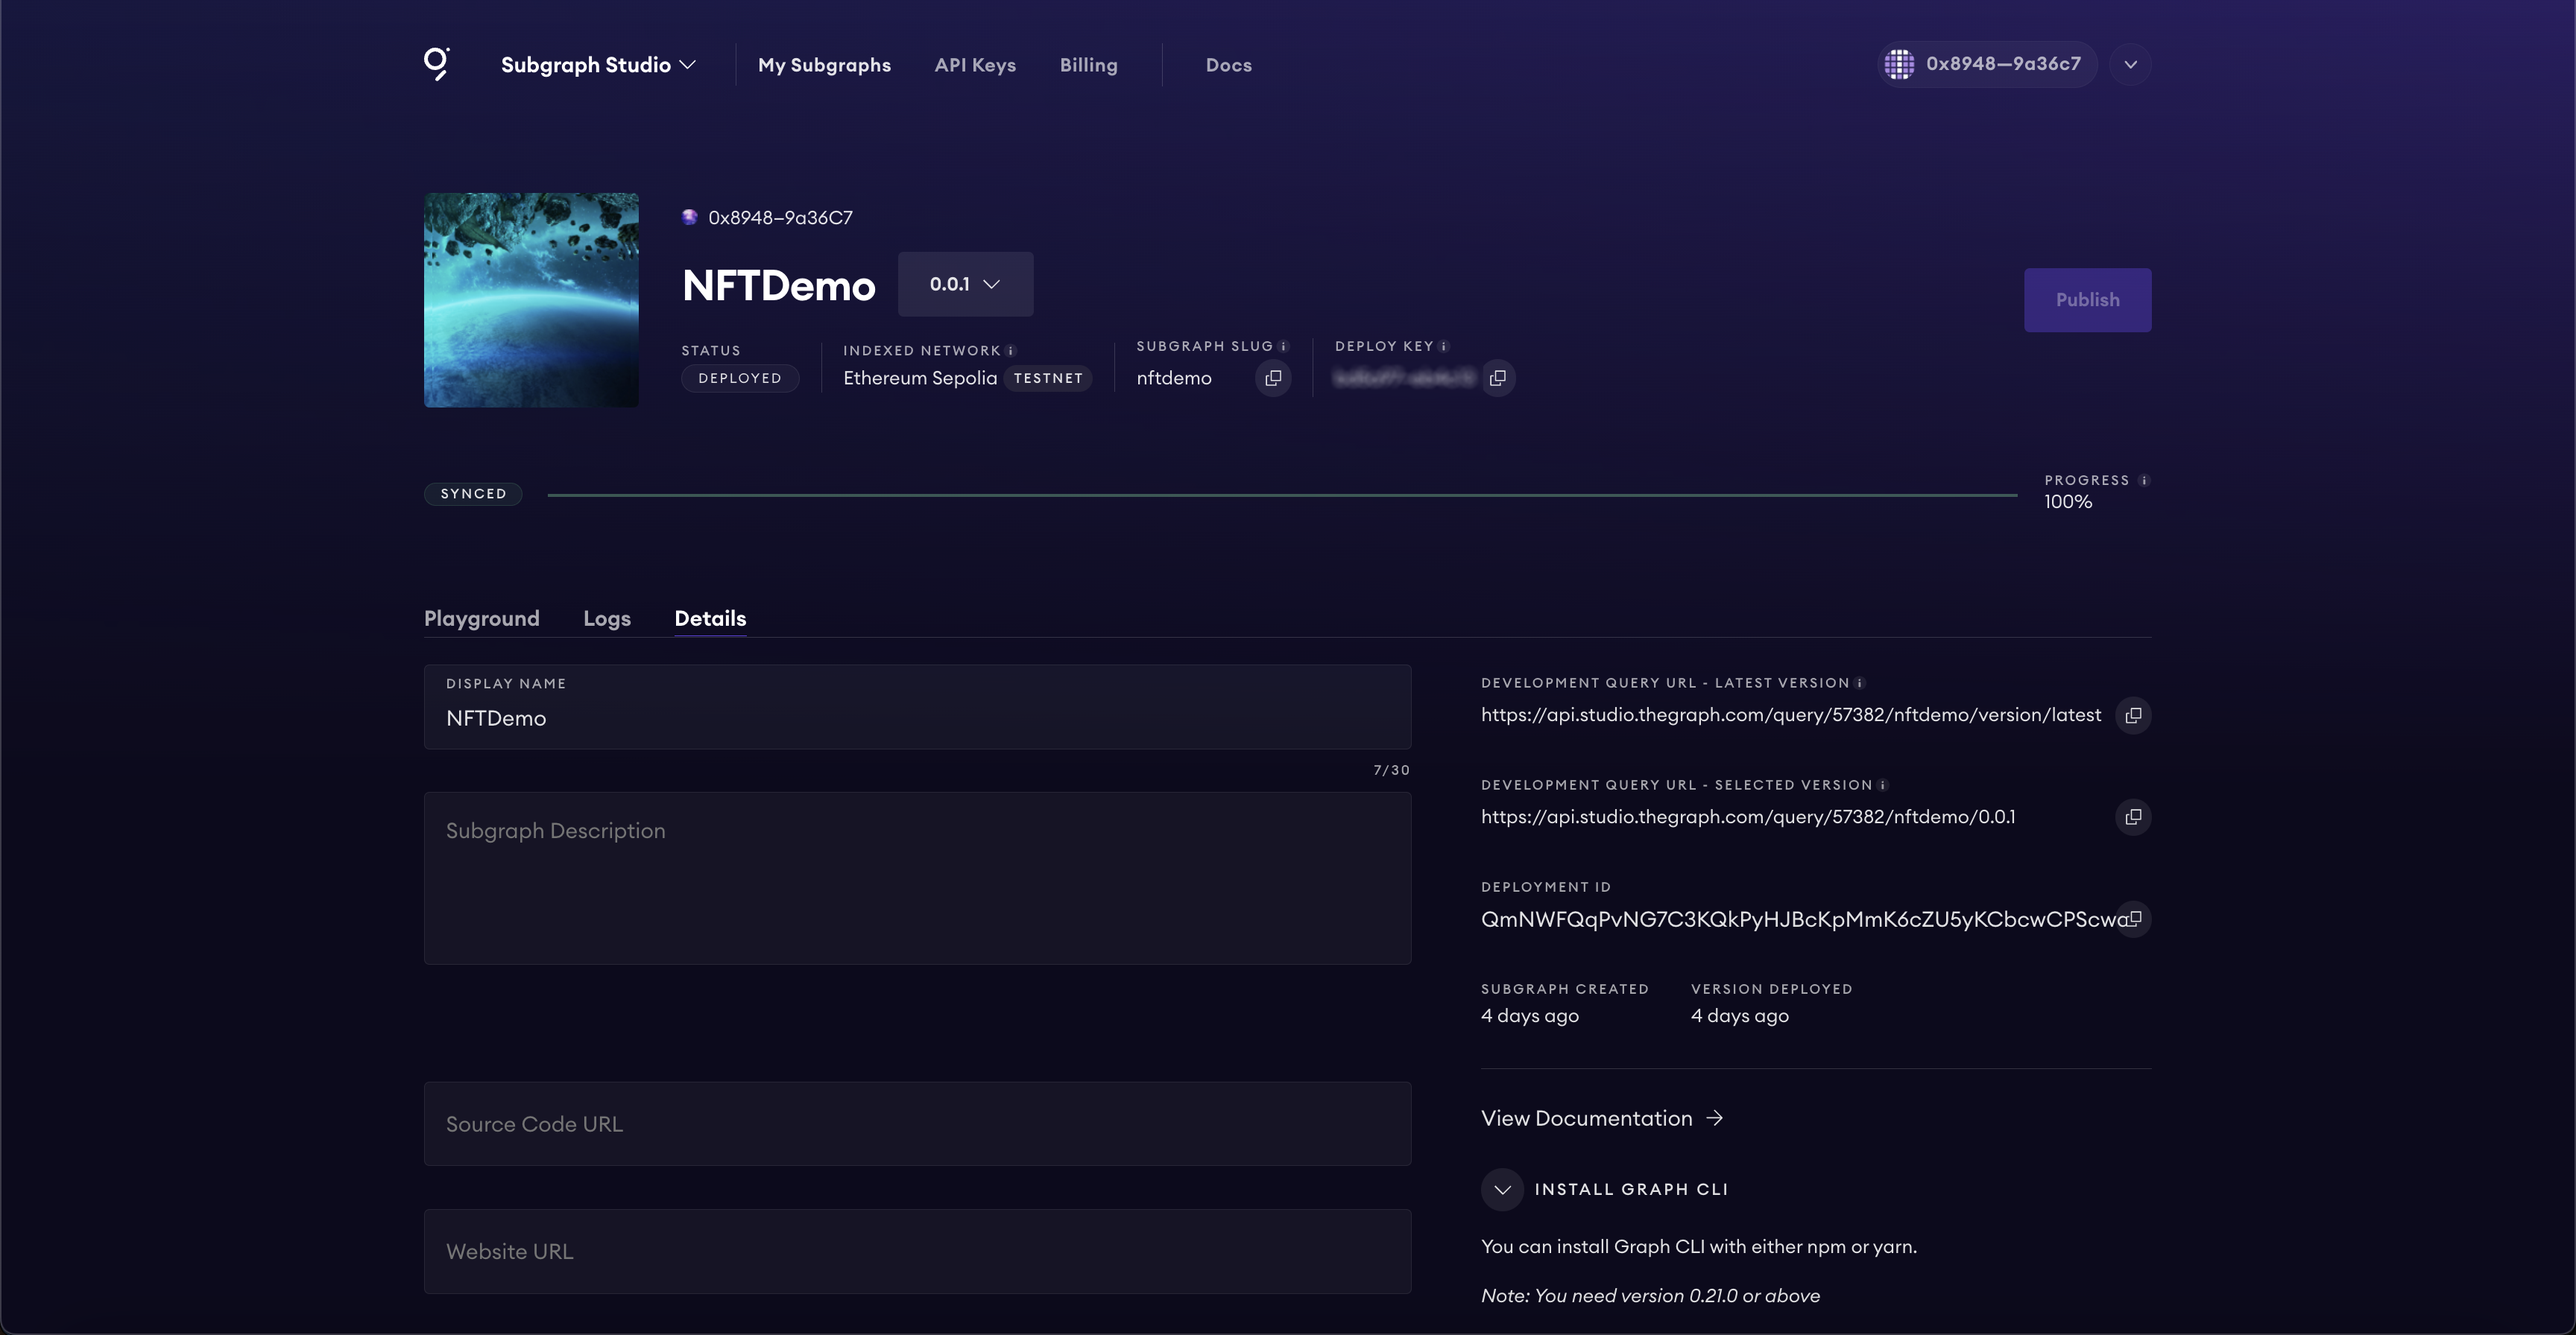
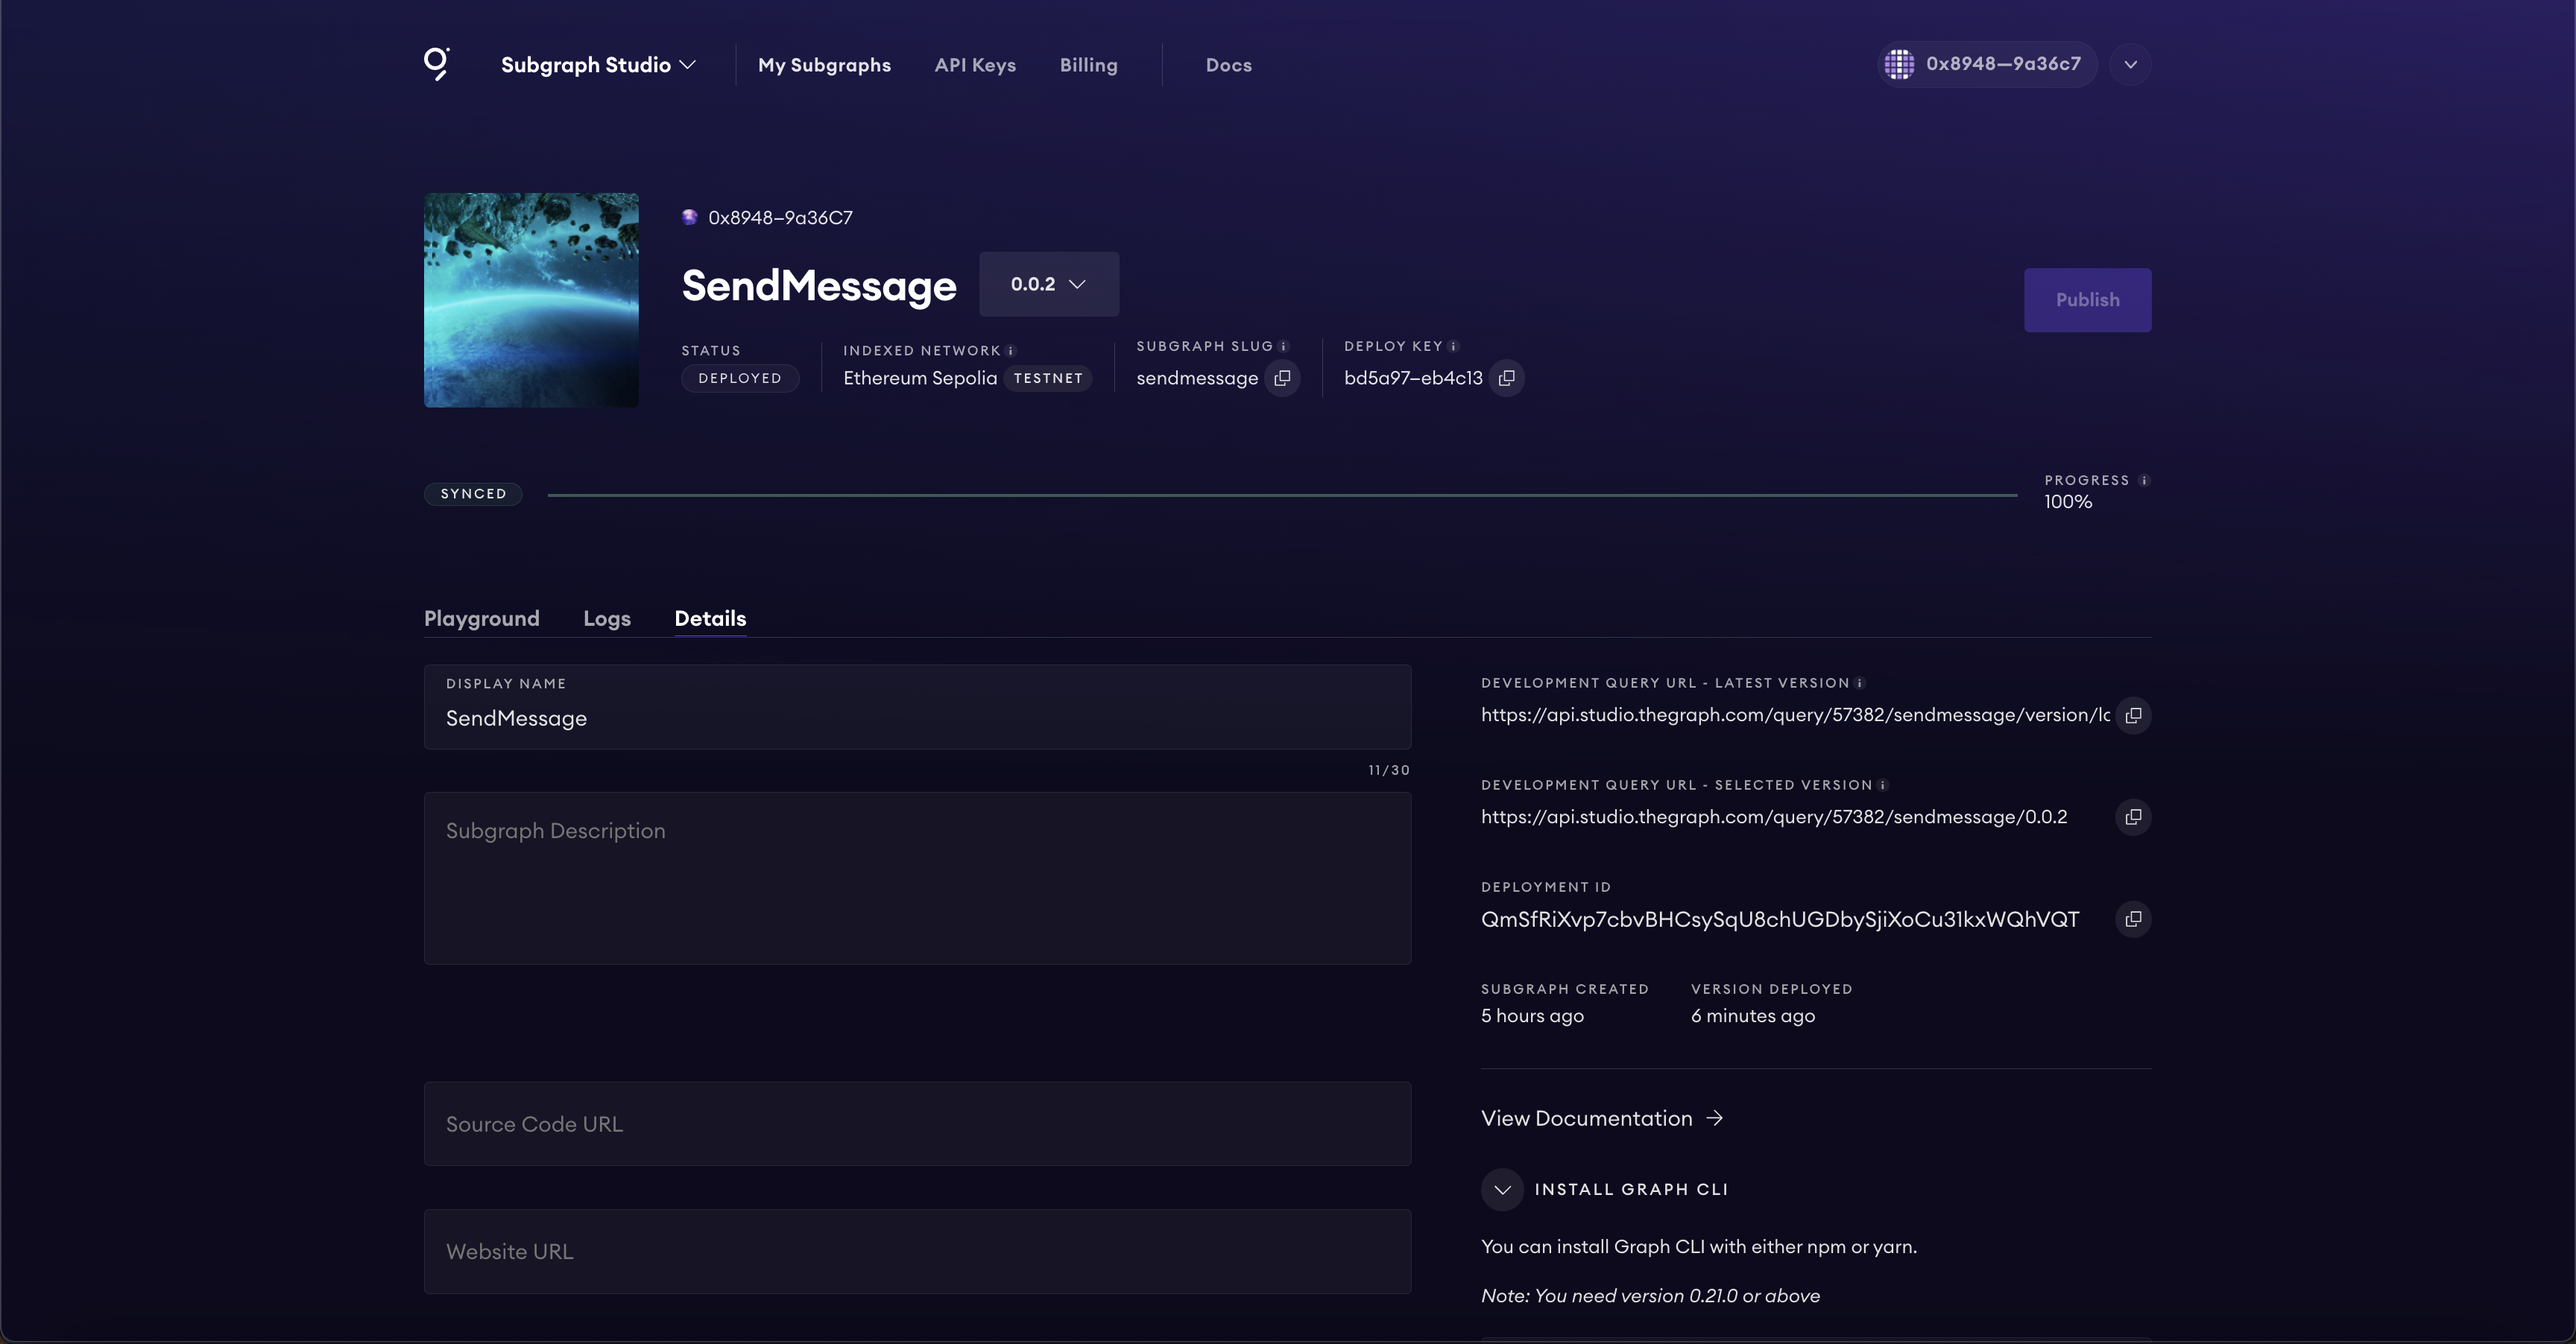
Adding some new screenshots and updating docs

diff --git a/docs/The_Graph-SE2-Subgraph-package/en/section-1/lesson-2_Updating your subgraph.md b/docs/The_Graph-SE2-Subgraph-package/en/section-1/lesson-2_Updating your subgraph.md
@@ -32,6 +32,8 @@ type SendMessage @entity(immutable: true) {
 
 ```
 
+![](/public/images/The_Graph-SE2-Subgraph-package/section-1/Lesson2-1.png)
+
 #### ✅ Update the Subgraph manifest
 
 You will also need to add these entities to the Subgraph YAML configuration and also add the event handlers as well.
@@ -52,11 +54,15 @@ entities:
           handler: handleSendMessage
 ```
 
+![](/public/images/The_Graph-SE2-Subgraph-package/section-1/Lesson2-2.png)
+
 If you are following along, next you will need to copy over your new abi and regenerate the code.
 
 ```
 yarn abi-copy && yarn codegen
 ```
+
+![](/public/images/The_Graph-SE2-Subgraph-package/section-1/Lesson2-3.png)
 
 #### ✅ Update the mapping script
 
@@ -66,9 +72,10 @@ Next you will need to update the mappings for the files we have edited above.
 
 ```
 import {
+  YourContract,
   GreetingChange as GreetingChangeEvent,
   SendMessage as SendMessageEvent
-} from "../generated/Contract/Contract"
+} from "../generated/YourContract/YourContract";
 ```
 
 As well as the schema.
@@ -112,6 +119,10 @@ export function handleSendMessage(event: SendMessageEvent): void {
 }
 
 ```
+
+Your changes should be accepted inside of your editor without any linting errors.
+
+![](/public/images/The_Graph-SE2-Subgraph-package/section-1/Lesson2-4.png)
 
 After that is done, you are almost done… time to ship it!
 

diff --git a/docs/The_Graph-SE2-Subgraph-package/en/section-2/lesson-6_Frontend.md b/docs/The_Graph-SE2-Subgraph-package/en/section-2/lesson-6_Frontend.md
@@ -14,6 +14,12 @@ Update the configuration to point to the testnet that you deployed to in previou
   targetNetwork: chains.sepolia,
 ```
 
+Once you change this you can go back to scaffold-ETH and refresh the UI. You will get kicked from your burner wallet, you will want to connect to the testnet work using your metamask wallet.
+
+#### ✅ Fire off a test message to someone you know!
+
+Then check to see if the message was indexed successfully in the studio.
+
 #### ✅ Update our GraphQL URL to point to our development endpoint
 
 The development endpoint for your subgraph can be found on the details tab in Subgraph Studio.
@@ -102,5 +108,17 @@ And then load the data like so...
 
   const messages = messagesData?.sendMessages || []; 
 ```
+
+We can then make this a bit prettier and use the <Address> component instead of just plain text.
+
+```
+              <tr key={message.id}>
+                <td><Address address={message._from}/></td>
+                <td><Address address={message._to}/></td>
+                <td>{message.message}</td>
+              </tr>
+```
+
+This will look a lot nicer than those long strings! :D
 
 > Note: If you want to see the full complete file you can do so [here](https://gist.github.com/kmjones1979/26ef9633b61b17f237e88eb41bb688de)!

diff --git a/docs/The_Graph-SE2-Subgraph-package/en/section-1/lesson-1_Adding an event.md b/docs/The_Graph-SE2-Subgraph-package/en/section-1/lesson-1_Adding an event.md
@@ -8,7 +8,7 @@ Now we want to start making some changes to our contract. We will create a new f
 
 > Open up YourContract.sol under packages/hardhat/contracts
 
-Add the following new code.
+Add the following new line of code.
 
 ```
     event SendMessage(address _from, address _to, string message);
@@ -18,12 +18,24 @@ Add the following new code.
     }
 ```
 
-We can save our contract and then deploy those new changes.
+You can drop this event and function anywhere inside the contract, but best practice is to drop it below any modifiers or the constructor.
+
+![](/public/images/The_Graph-SE2-Subgraph-package/section-1/Lesson1-1.png)
+
+We can save our contract and then deploy those new changes. 
+
+> Pro tip, if you use the --reset flag you will ALWAYS get a fresh contract deployed, regardless of any updates to the source.
 
 ```
 yarn deploy --reset
 ```
 
+You should see the following output:
+
+![](/public/images/The_Graph-SE2-Subgraph-package/section-1/Lesson1-2.png)
+
 #### ✅ Test your new function
 
 Navigate over to http://localhost:3000/debug and send vitalik.eth a message. 
+
+![](/public/images/The_Graph-SE2-Subgraph-package/section-1/Lesson1-3.png)

diff --git a/docs/The_Graph-SE2-Subgraph-package/en/section-2/lesson-5_Graph CLI.md b/docs/The_Graph-SE2-Subgraph-package/en/section-2/lesson-5_Graph CLI.md
@@ -1,6 +1,10 @@
 ## Graph CLI
 
-###  ✅ Install the Graph CLI 
+###  ✅ Deploy your subgraph using the CLI
+
+#### ✅ Use the Graph CLI to complete the deployment
+
+![](/public/images/The_Graph-SE2-Subgraph-package/section-2/Studio6.png)
 
 You can install the Graph CLI globally using the following command.
 
@@ -140,6 +144,10 @@ Which version label to use? (e.g. "v0.0.1"): 0.0.1
 
 Build completed: QmUqgKBRWxFGNG6oPZuZxuCwJbEvKe6UbKCe8WTcDJvusk
 ```
+
+It might take up to 5 minutes for you subgraph to deploy to the studio. Once it has been deployed, you can check that is fully syncing and has no errors. A successful deploy will look like the following.
+
+![](/public/images/The_Graph-SE2-Subgraph-package/section-2/Studio7.png)
 
 #### ✅ Send a transaction and verify in Subgraph Playground 
 

diff --git a/docs/The_Graph-SE2-Subgraph-package/en/section-2/lesson-4_Subgraph Studio.md b/docs/The_Graph-SE2-Subgraph-package/en/section-2/lesson-4_Subgraph Studio.md
@@ -24,10 +24,3 @@ You might need to sign a request to verify that you own the connected wallet.
 
 ![](/public/images/The_Graph-SE2-Subgraph-package/section-2/Studio5.png)
 
-#### ✅ Use the Graph CLI to complete the deployment
-
-![](/public/images/The_Graph-SE2-Subgraph-package/section-2/Studio6.png)
-
-It might take up to 5 minutes for you subgraph to deploy to the studio. Once it has been deployed, you can check that is fully syncing and has no errors. A successful deploy will look like the following.
-
-![](/public/images/The_Graph-SE2-Subgraph-package/section-2/Studio7.png)

diff --git a/docs/The_Graph-SE2-Subgraph-package/en/section-1/lesson-3_Deploy.md b/docs/The_Graph-SE2-Subgraph-package/en/section-1/lesson-3_Deploy.md
@@ -6,4 +6,8 @@
 yarn local-ship
 ```
 
-If you want to test this out on your own instance of Scaffold-ETH, navigate over to the Debug Contracts tab. Here you can draft up a message and fire it off.
+![](/public/images/The_Graph-SE2-Subgraph-package/section-1/Lesson3-1.png)
+
+Be sure to add a new version number to your subgraph when it prompts you. This should be higher then the previous version.
+
+Next we will test out the subgraph and make sure it is indexing correctly.

diff --git a/docs/The_Graph-SE2-Subgraph-package/en/section-2/lesson-1_Install Metamask.md b/docs/The_Graph-SE2-Subgraph-package/en/section-2/lesson-1_Install Metamask.md
@@ -3,3 +3,5 @@
 ### Install MetaMask
 
 When we deploy a smart contract to the blockchain or interact with a deployed smart contract, we need to pay for gas. Therefore, we need a Web3 wallet, such as MetaMask. Click here to install MetaMask.[here](https://metamask.io/)
+
+You will also want to get some testnet ETH, so that you can deploy your contract to a testnet later in this tutorial.

diff --git a/docs/The_Graph-SE2-Subgraph-package/en/section-1/lesson-4_Test.md b/docs/The_Graph-SE2-Subgraph-package/en/section-1/lesson-4_Test.md
@@ -14,4 +14,8 @@ Next, lets see if our data is in The Graph. Here is an example query that shows 
 }
 ```
 
+You should get a nice response like this: 
+
+![](/public/images/The_Graph-SE2-Subgraph-package/section-1/Lesson4-1.png)
+
 Data is such a beautiful thing huh? 

diff --git a/docs/The_Graph-SE2-Subgraph-package/en/section-2/lesson-2_Deployer account creation.md b/docs/The_Graph-SE2-Subgraph-package/en/section-2/lesson-2_Deployer account creation.md
@@ -53,3 +53,5 @@ Public address: 0x87f00B2c39F97CD00BC6d09777BC4327aCA39180
    nonce: 0
 
 ```
+
+Send over some testnet ETH from the chain of your choice. I would suggest sepolia as its fairly easy to get some testnet ETH from various sources.
